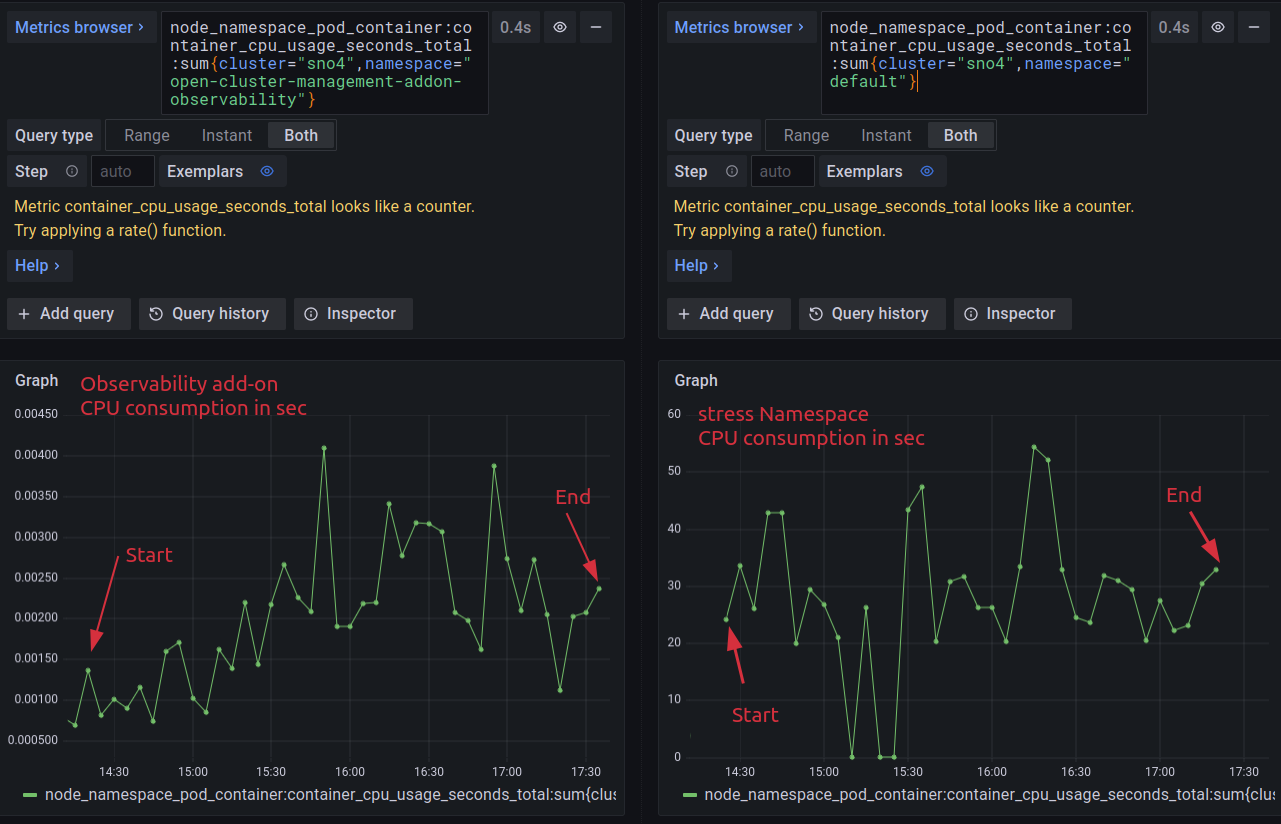
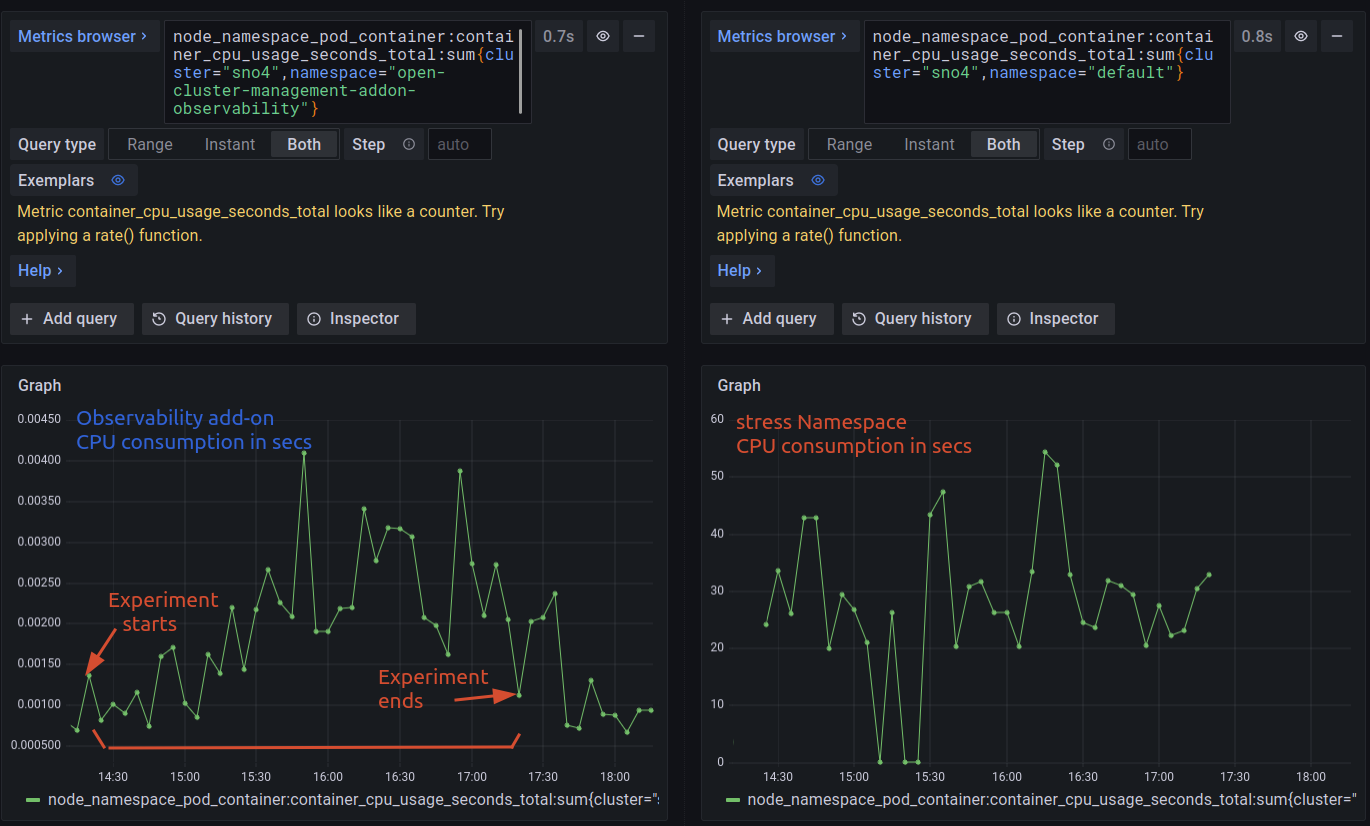
minor update

diff --git a/docs/posts/cluster-observability/index.html b/docs/posts/cluster-observability/index.html
@@ -196,7 +196,7 @@
 </span></span><span style="display:flex;"><span>sno4   36543m       83%    46770Mi         75% 
 </span></span></code></pre></div><p>With this load, we can compare the observability consumption related to the high loads of the stressing Namespace:</p>
 <p><img src="assets/consumption_2.png" alt=""></p>
-<p>Apart from on very concrete peak, it seems that the high loads are not affecting to the observability add-on, which behaves pretty constant.</p>
+<p>Apart from on very concrete peak, the increase on the load it seems not very meaningful. Considering the scale between 0.0015 and 0.0025 seconds. It seems that the high loads are not affecting to the observability add-on, which behaves pretty constant.</p>
 <h2 id="conclusions">Conclusions<a href="#conclusions" class="hanchor" ariaLabel="Anchor">&#8983;</a> </h2>
 <p>Monitoring and Observability are really crucial features, specially, when having large number of clusters in your infrastructure. To have everything centralized over a common platform for deploying, maintenance, life-cycle management, monitoring, etc is crucial in order to easiness your different processes. In the future, observability will collect also logs and traces, that will complete the platform. After that, automation and AI will do all the work for you ;) but this is other story&hellip;.</p>
 

diff --git a/jgato-red-blog/content/posts/Cluster-Observability/index.md b/jgato-red-blog/content/posts/Cluster-Observability/index.md
@@ -122,7 +122,7 @@ With this load, we can compare the observability consumption related to the high
 
 ![](assets/consumption_2.png)
 
-Apart from on very concrete peak, it seems that the high loads are not affecting to the observability add-on, which behaves pretty constant. 
+Apart from on very concrete peak, the increase on the load it seems not very meaningful. Considering the scale between 0.0015 and 0.0025 seconds. It seems that the high loads are not affecting to the observability add-on, which behaves pretty constant. 
 
 
 ## Conclusions
